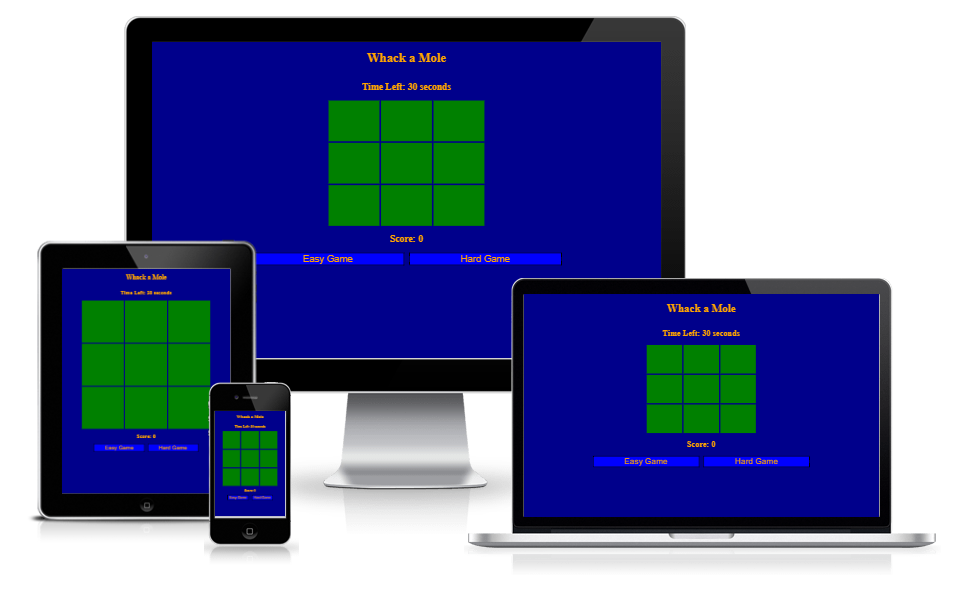
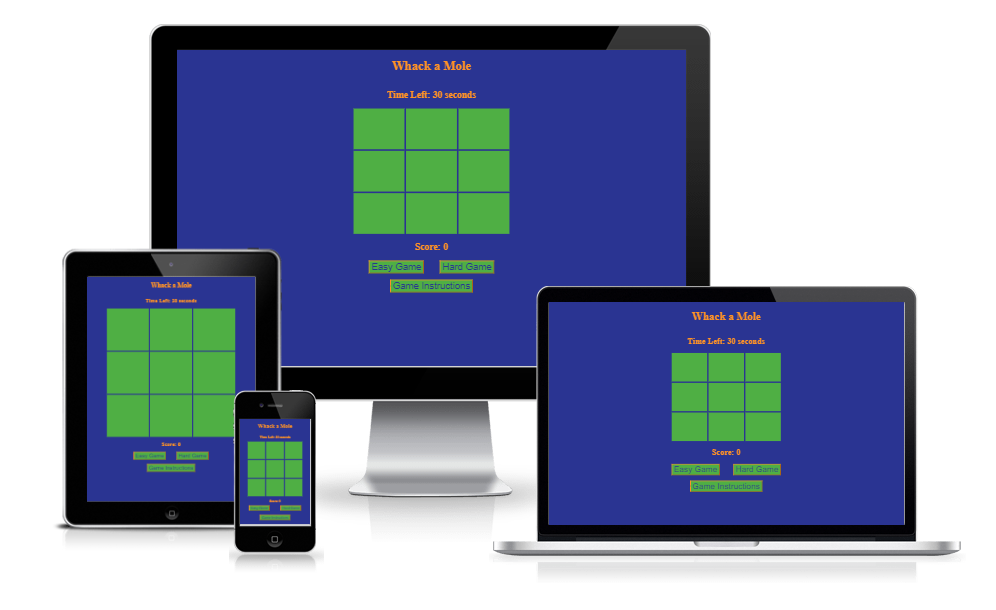
draft readme file added

diff --git a/README.md b/README.md
@@ -6,23 +6,22 @@
 
 [View website](https://evergswe.github.io/Whack_A_Mole/)
 
-## Introduction
+# Introduction
 
 Playing digital games has become one of the most popular leisure activities for people of all ages, genders and backgrounds. But it has more advantages but leasure as training the different capabilities like
 reducing reaction time without compromising accuracy. This is discussed in this publication from 2009 (https://www.ncbi.nlm.nih.gov/pmc/articles/PMC2871325/). On the basis of this input I decided to develop
 an easy click game known as "whack a mole" for my second project using html, css and javascript syntax. The game has two levels of difficultis based on how long time the mole is visable before it moves to a randome
 new square in the grid and scores are collected based on number of hits e.g. "click" a mole. 
 
-## UX process
+# UX process
 
-### User stories
+## User stories
 
 As a game user:
 - I would like to have fun and spend some time to Whack a Mole
 - I would like to understand the purpose with the game
 - I would like to know how to start the game
-- I would like to know what time it is left for the game
-- I would like to know when I hit a mole
+- I would like to know what time is left for the game
 - I would like to know my score
 - I would like to have different levels of difficulties
 
@@ -32,84 +31,132 @@ As a site owner:
 - I would like the User to continue to play the game on higher difficulties
 
 
-### Scope
-The scope of this project is a MVP fulfilling requirements in Portfolio 2 Assessment Guide
+## Design
+Basic design structure was created with the ambition to focus on JavaScript part of the Whacka a Mole game Project and return to 
+design in agail way of working. Time limitation made the design of game at acceptable level.
 
-### Structure & Skeleton
+## Structure & Skeleton
 Based on the given user stories input and web search for whack a mole games a basic wireframe and functional diagram was created
 
 ![Wireframe Whack a Mole](/assets/images/WireFrame_Whack_A_Mole.PNG)
 
 ![Function Diagram](/assets/images/functional_diagram_Whack_A_Mole.PNG)
 
-### Surface
+## Surface
 
-Based on retro game color schemas 
+Surface are based on easy structure with color schemas following retro game style
 
-## Features
+![Color Schema Old Game](/assets/images/retro-game-by-schemecolor.png)
+
+
+
+# Features
+
+### Game Instruction 
+To be able to easely understand gama purpose a specific button is added. When clicking the button a popup box including instructions is shown. 
+Instruction is removed by clicking the close button.
+
+### Start Game Easy and Hard 
+Two option of difficulti levels added with the difference of time interval between the move of mole. Selection is made by clicking one of the two buttons
+and game is started. Intervall has been tested iteratively and resultet in easy has an interval of 1 second and hard has an interval of 0.6 seconds.
+
+### TimeLeft Countdown 
+At the start of game the timeleft start at 30 seconds and count down to 0 when the Game Over alert pops up.
+
+### Randomly place Mole in Square 
+In html-file 9 divs are created in the gamearea which is used to randomly add a class to the div. Mole Class is removed from existing div and assigned
+ same or new randomly calculated div when time interval is ended.
+
+### Score  
+Mouse down event listenere are added to squares in the game area and used to check if mose down event is registered at the same element as the randomly placed mole class.
+If this is true score is increase with 1, else nothing is happening with score.
+
+### Game Over alert
+When timeleft is 0 an alert pops up with the message of score achived during the game
 
 
 ### Development planned for next increment
+- improve styling as the focus was on MVP and java script
+- add a hammer for hitting the mole
+- add a score message at the mole when hit
+- add a mole animation when hit
 
-- introduce a hammer for hitting the mole
-- adding a score message at the mole when hitted
-
-
-## Testing
+# Testing
 
 ### Feature testing
+Manual tests has been performed according to below test procedure. One bug has been detacted related to re-start of game and 
+Mole left from previouse game. When hitting the Mole you can gain one additional score prior to re-starting the game. Bug is 
+acceptable as it har only minor impact to score.
+
+![Test Case Whack A Mole](/assets/images/TestCase_Whack_A_Mole.PNG)
 
 
 ### Browser interface testing (UI)
-
+Below procesers has been available and used for testing the UI.
 
 - Google Chrome (desktop device)
+Game UI as expected however could be improved
 
 
 - Microsoft Edge (desktop device)
+Game UI as expected however could be improved
  
 
 - Safari (mobile device)
+Game UI as expected and one issu identified with Game instruction, image is not shown why alt text instead are visible.
 
 
-- Internet Explorer
 
-
-### Automated testing
+## Automated testing
 
 Automated testing of html, css programming language has been done by using third party tools. Google Chorme extension devtools, Lighthouse, has been used for general improvements of webpage quality. It has audits for performance, accessibility, progressive web apps, SEO
 
-1. [HTML Validator by w3.org 'validator'](https://validator.w3.org/#validate_by_uri)
+1. [HTML Validator by w3.org](https://validator.w3.org/#validate_by_uri)
 
 - Result
-![HTML Validator](/assests/img/....)
+  - passed without remarks
+![HTML Validator](/assets/images/W3C_HTML_Check_Whack_A_Mole.PNG)
 
-  - As select require None value option, adding 'option value="">None</option' resolved the error
-
-2. [CSS Validator by w3.org 'jigsaw'](https://jigsaw.w3.org/css-validator/)
+2. [CSS Validator](https://jigsaw.w3.org/css-validator)
 
 - Result
   - Passed without remarks
+<p>
+    <a href="http://jigsaw.w3.org/css-validator/check/referer">
+        <img style="border:0;width:88px;height:31px"
+            src="http://jigsaw.w3.org/css-validator/images/vcss"
+            alt="Valid CSS!" />
+    </a>
+</p>
+
+3. [JSHint JavaScript Validator](https://jshint.com)
+
+- Result
+  - Passed with accapteble remarks
+
+  ![JS validator](/assets/images/jshint_Whack_A_Mole.PNG)
+
 
 
 3. [Google Chrome Lighthouse Extension](https://developers.google.com/web/tools/lighthouse)
 
 - Lighthouse test mobile:
 
-![Lighthouse mobile test](/assests/....)
+![Lighthouse mobile test](/assets/images/Lighthouse_check_mobile_Whack_A_Mole.PNG)
 
 - Lighthouse test desktop:
 
-![Lighthouse desktop test](/assests/......)
-
-- Improvements note:
+![Lighthouse desktop test](/assets/images/Lighthouse_check_desktop_Whack_A_Mole.PNG)
 
 
-  ### Test Conclution
+## Test Conclution
 
-- test summary
+- Two issues detected during tesing
+  - You could gain one additonal score prior to restarting game 
+  - Image in Game Instruction popup does not render and alt text is displayed in Safari on mobile device
+In all the test result is accaptable with regards to both functional tests as well as UI tests. 
 
-## Deployment
+# Deployment
 
 ### Github deployment steps
 
@@ -119,12 +166,17 @@ Automated testing of html, css programming language has been done by using third
 4. Scroll down to Gibhub Pages and select the link to dedicated tab
 5. Go to source drop down and select branch main, root and Save
 6. Page is now successfully published on Github Pages
-![Github pages published](/assests/.....)
 
-## Credits
+# Credits
 
-### Content
+## Code
+- code inspiration has been picked up from variouse sources
+  - Code Institute Love Math project and course material
+  - https://www.w3schools.com/jsref/
+  - https://stackoverflow.com/
+  - https://www.freecodecamp.org/
 
-### Media
 
-### Code
+- code challanges has been resolved by reading different sources
+  - Code Institute Slack
+  - https://developer.mozilla.org/
